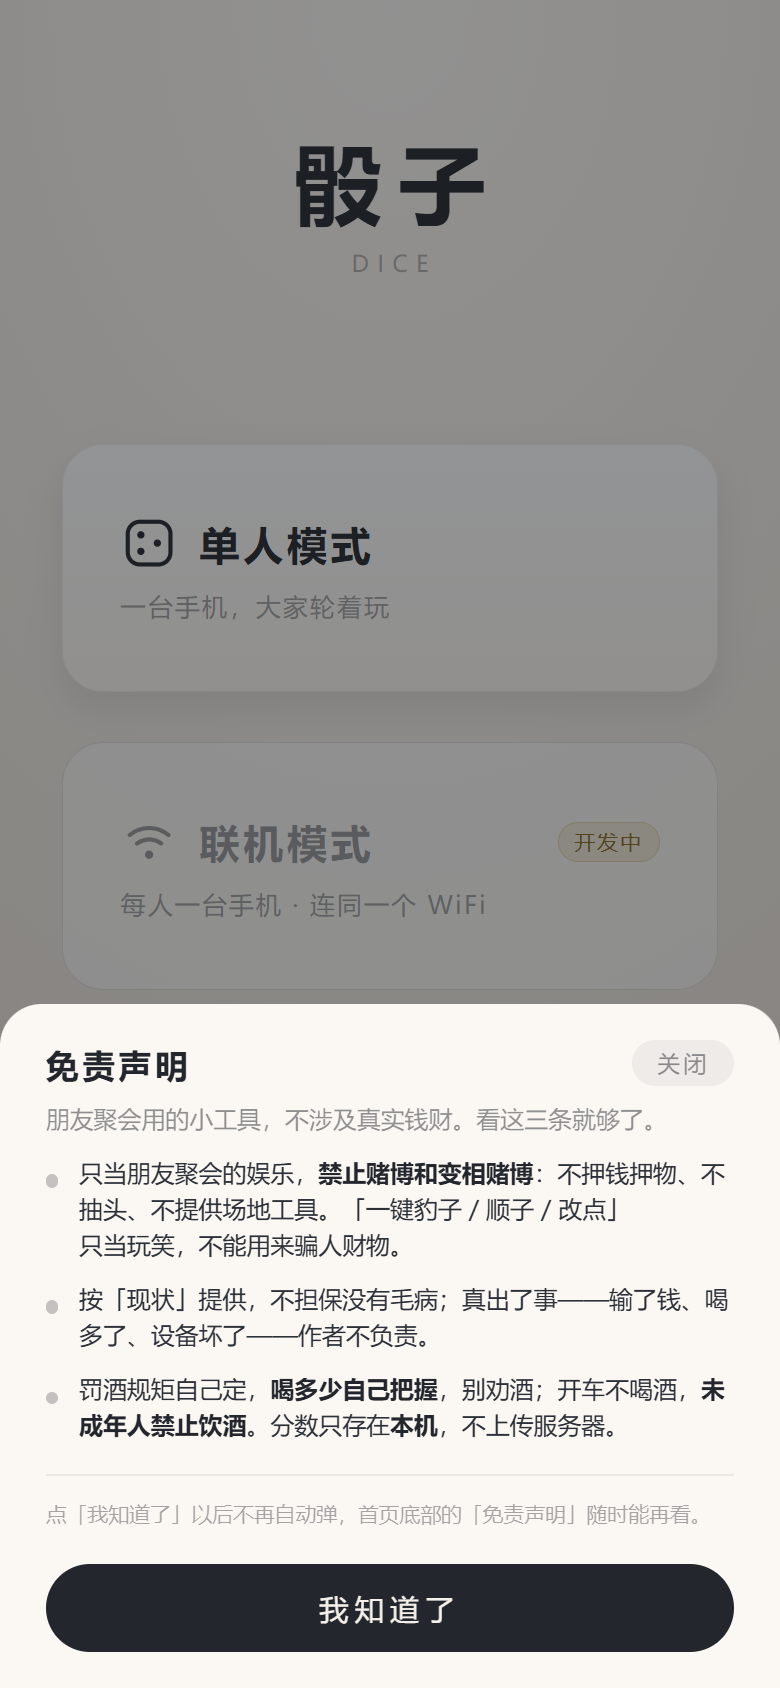
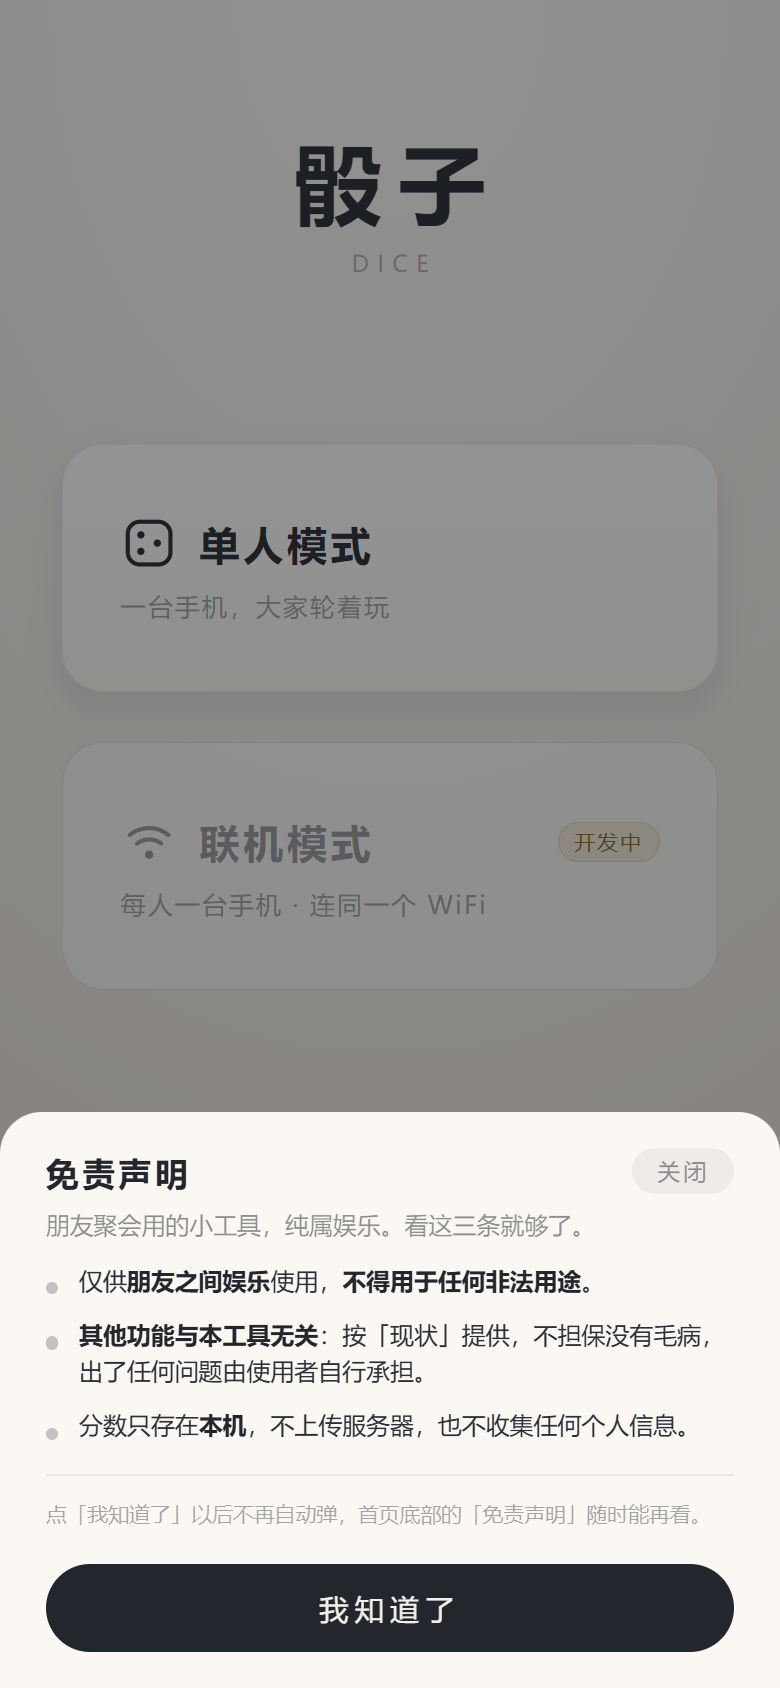
chore: sync

Changed region(s): [[0.0, 0.5853, 1.0, 0.8626]]

diff --git a/app/src/clean/assets/www/app.js b/app/src/clean/assets/www/app.js
@@ -1089,10 +1089,13 @@
 
    第一次打开自动弹一次，点过「我知道了」就不再弹，之后从首页底部那颗「免责声明」看。
 
-   内容照仓库 README 的「免责声明与使用条款」压缩成三条（用途 / 后果 / 喝酒），
-   口径一致，但不出现仓库链接 —— 这是给桌上朋友看的一句话说明，不是分发协议。
+   口径就三句，别往里加东西：只能朋友之间娱乐、不得用于任何非法用途、其他功能与本工具无关。
+   三条禁忌（都是明确要求，改文案时别踩）：
+     · 不提钱、不提赌注、不提喝不喝酒 —— 这是个骰子小工具，不是酒桌规矩的背书；
+     · 不点名任何隐藏功能 —— 声明是公开给别人看的，写出来等于替人指路；
+     · 不放仓库链接 —— 不是分发协议，是给桌上朋友看的一句话说明。
 
-   篇幅要短：它默认弹在首页上面，写满一屏等于今天别玩了。三条、每条两三行就够；
+   篇幅要短：它默认弹在首页上面，写满一屏等于今天别玩了。三条、每条一两行就够；
    字号和行距比「玩法说明」再收一点（.terms-sheet 那套），整块压在六成屏以内。
 
    点空白处关掉不算看过 —— 下次还会弹，直到真的点了「我知道了」。 */
@@ -1107,11 +1110,10 @@
   if (!mask || !body) return;
 
   var LINES = [
-    '只当朋友聚会的娱乐，<strong>禁止赌博和变相赌博</strong>：不押钱押物、不抽头、不提供场地工具。' +
-      '「一键豹子 / 顺子 / 改点」<span class="nb">只当玩笑</span>，不能用来骗人财物。',
-    '按「现状」提供，不担保没有毛病；真出了事——输了钱、喝多了、设备坏了——作者不负责。',
-    '罚酒规矩自己定，<strong>喝多少自己把握</strong>，别劝酒；开车不喝酒，<strong>未成年人禁止饮酒</strong>。' +
-      '分数只存在<strong>本机</strong>，不上传服务器。'
+    '仅供<strong>朋友之间娱乐</strong>使用，<strong>不得用于任何非法用途</strong>。',
+    '<strong>其他功能与本工具无关</strong>：按「现状」提供，不担保没有毛病，' +
+      '出了任何问题由使用者自行承担。',
+    '分数只存在<strong>本机</strong>，不上传服务器，也不收集任何个人信息。'
   ];
 
   function read() {
@@ -1122,7 +1124,7 @@
   }
 
   function build() {
-    var h = '<div class="rule-lead">朋友聚会用的小工具，不涉及真实钱财。看这三条就够了。</div>';
+    var h = '<div class="rule-lead">朋友聚会用的小工具，纯属娱乐。看这三条就够了。</div>';
     for (var i = 0; i < LINES.length; i++) {
       h += '<div class="rule-li"><em></em><span>' + LINES[i] + '</span></div>';
     }

diff --git a/app/src/full/assets/www/app.js b/app/src/full/assets/www/app.js
@@ -1575,10 +1575,13 @@
 
    第一次打开自动弹一次，点过「我知道了」就不再弹，之后从首页底部那颗「免责声明」看。
 
-   内容照仓库 README 的「免责声明与使用条款」压缩成三条（用途 / 后果 / 喝酒），
-   口径一致，但不出现仓库链接 —— 这是给桌上朋友看的一句话说明，不是分发协议。
+   口径就三句，别往里加东西：只能朋友之间娱乐、不得用于任何非法用途、其他功能与本工具无关。
+   三条禁忌（都是明确要求，改文案时别踩）：
+     · 不提钱、不提赌注、不提喝不喝酒 —— 这是个骰子小工具，不是酒桌规矩的背书；
+     · 不点名任何隐藏功能 —— 声明是公开给别人看的，写出来等于替人指路；
+     · 不放仓库链接 —— 不是分发协议，是给桌上朋友看的一句话说明。
 
-   篇幅要短：它默认弹在首页上面，写满一屏等于今天别玩了。三条、每条两三行就够；
+   篇幅要短：它默认弹在首页上面，写满一屏等于今天别玩了。三条、每条一两行就够；
    字号和行距比「玩法说明」再收一点（.terms-sheet 那套），整块压在六成屏以内。
 
    点空白处关掉不算看过 —— 下次还会弹，直到真的点了「我知道了」。 */
@@ -1593,11 +1596,10 @@
   if (!mask || !body) return;
 
   var LINES = [
-    '只当朋友聚会的娱乐，<strong>禁止赌博和变相赌博</strong>：不押钱押物、不抽头、不提供场地工具。' +
-      '「一键豹子 / 顺子 / 改点」<span class="nb">只当玩笑</span>，不能用来骗人财物。',
-    '按「现状」提供，不担保没有毛病；真出了事——输了钱、喝多了、设备坏了——作者不负责。',
-    '罚酒规矩自己定，<strong>喝多少自己把握</strong>，别劝酒；开车不喝酒，<strong>未成年人禁止饮酒</strong>。' +
-      '分数只存在<strong>本机</strong>，不上传服务器。'
+    '仅供<strong>朋友之间娱乐</strong>使用，<strong>不得用于任何非法用途</strong>。',
+    '<strong>其他功能与本工具无关</strong>：按「现状」提供，不担保没有毛病，' +
+      '出了任何问题由使用者自行承担。',
+    '分数只存在<strong>本机</strong>，不上传服务器，也不收集任何个人信息。'
   ];
 
   function read() {
@@ -1608,7 +1610,7 @@
   }
 
   function build() {
-    var h = '<div class="rule-lead">朋友聚会用的小工具，不涉及真实钱财。看这三条就够了。</div>';
+    var h = '<div class="rule-lead">朋友聚会用的小工具，纯属娱乐。看这三条就够了。</div>';
     for (var i = 0; i < LINES.length; i++) {
       h += '<div class="rule-li"><em></em><span>' + LINES[i] + '</span></div>';
     }

diff --git a/app/src/clean/assets/www/index.html b/app/src/clean/assets/www/index.html
@@ -77,7 +77,7 @@
     </button>
 
     <div class="home-foot">
-      <span class="home-ver" id="homeVer">v1.10.16 · 仅供朋友聚会娱乐</span>
+      <span class="home-ver" id="homeVer">v1.10.17 · 仅供朋友聚会娱乐</span>
       <button class="home-legal" id="termsBtn">免责声明</button>
     </div>
   </div>
@@ -195,7 +195,7 @@
     <div class="hint" id="hint">点「摇一摇」开始这一局</div>
     <div class="btn-row" id="btnRow"></div>
     <div class="foot">
-      <span>v1.10.16</span>
+      <span>v1.10.17</span>
       <button class="mode-link" id="ruleBtn">玩法说明</button>
     </div>
   </div>

diff --git a/app/src/full/assets/www/index.html b/app/src/full/assets/www/index.html
@@ -77,7 +77,7 @@
     </button>
 
     <div class="home-foot">
-      <span class="home-ver" id="homeVer">v1.10.16 · 仅供朋友聚会娱乐</span>
+      <span class="home-ver" id="homeVer">v1.10.17 · 仅供朋友聚会娱乐</span>
       <button class="home-legal" id="termsBtn">免责声明</button>
     </div>
   </div>
@@ -195,7 +195,7 @@
     <div class="hint" id="hint">点「摇一摇」开始这一局</div>
     <div class="btn-row" id="btnRow"></div>
     <div class="foot">
-      <span>v1.10.16</span>
+      <span>v1.10.17</span>
       <button class="mode-link" id="ruleBtn">玩法说明</button>
     </div>
   </div>

diff --git a/app/src/full/assets/www/app.css b/app/src/full/assets/www/app.css
@@ -1512,9 +1512,6 @@ body.tap-edit .die-slot:active .die {
   font-size: 3.0667vw;
   line-height: 1.5;
 }
-/* 中文随处可断行，四个字的词被劈成「只当玩 / 笑」看着像错字：整词不让断 */
-.terms-sheet .rule-li .nb { white-space: nowrap; }
-
 .terms-sheet .rule-li i {
   width: 5.3333vw;
   height: 5.3333vw;

diff --git a/app/src/clean/assets/www/app.css b/app/src/clean/assets/www/app.css
@@ -1200,9 +1200,6 @@ button[disabled] { opacity: 1; }
   font-size: 3.0667vw;
   line-height: 1.5;
 }
-/* 中文随处可断行，四个字的词被劈成「只当玩 / 笑」看着像错字：整词不让断 */
-.terms-sheet .rule-li .nb { white-space: nowrap; }
-
 .terms-sheet .rule-li i {
   width: 5.3333vw;
   height: 5.3333vw;

diff --git a/README.md b/README.md
@@ -444,11 +444,15 @@ iPhone 不能装 `.apk`，那是系统限制；要做真正的 iOS App 需要 Ma
 第一次打开会先压一层免责声明，点「我知道了」之后不再自动弹；之后从首页底部那颗
 **「免责声明」**随手能再看。点空白处只收起来、不算看过 —— 手滑点掉的那次不该把说明吞掉。
 
+三条，就三句：**只能朋友之间娱乐**、**不得用于任何非法用途**、**其他功能与本工具无关**，
+外加一句分数只存在本机。**不提钱、不提酒、不点名隐藏功能、不放仓库链接** ——
+这是给桌上朋友看的一句话说明，不是分发协议；弹层只占四成屏，首页的标题和两张卡还看得见。
+
 <p align="center">
-  <img src="docs/shots/terms.png" width="30%" alt="免责声明：不涉赌、喝酒自愿、未成年人禁酒、数据只在本地">
+  <img src="docs/shots/terms.png" width="30%" alt="免责声明：只能朋友之间娱乐、不得非法用途、其他功能与本工具无关">
 </p>
 <p align="center">
-  <sub>不涉赌、喝酒自愿、未成年人禁止饮酒、分数只存在本机</sub>
+  <sub>三条讲完，占四成屏，不挡首页</sub>
 </p>
 
 ## 改代码
